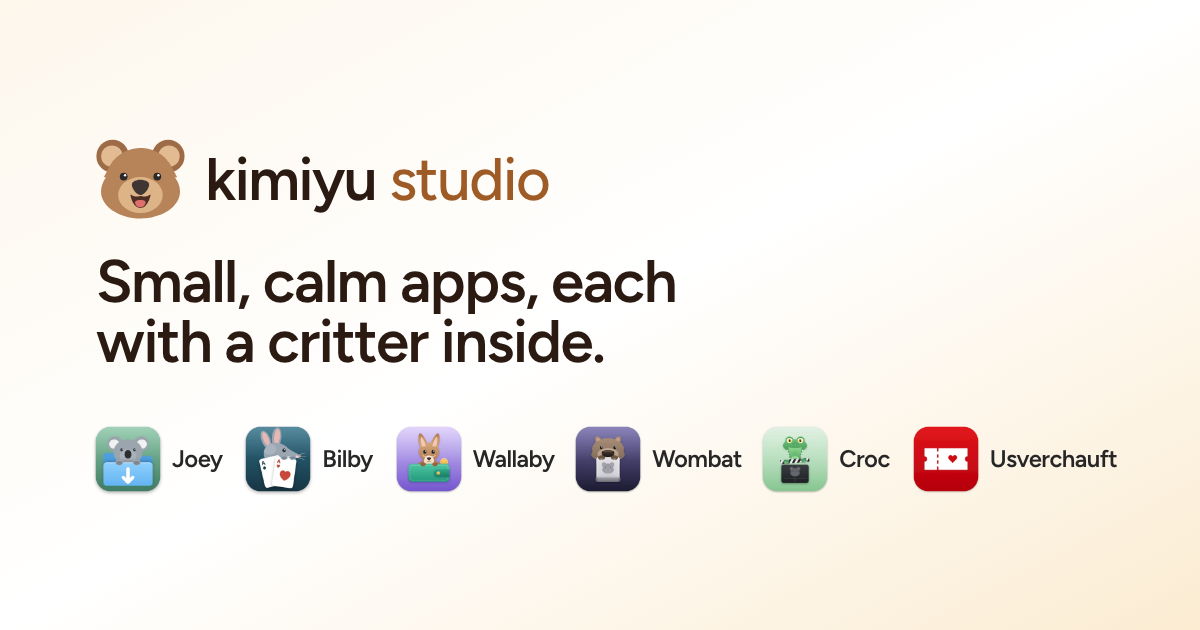
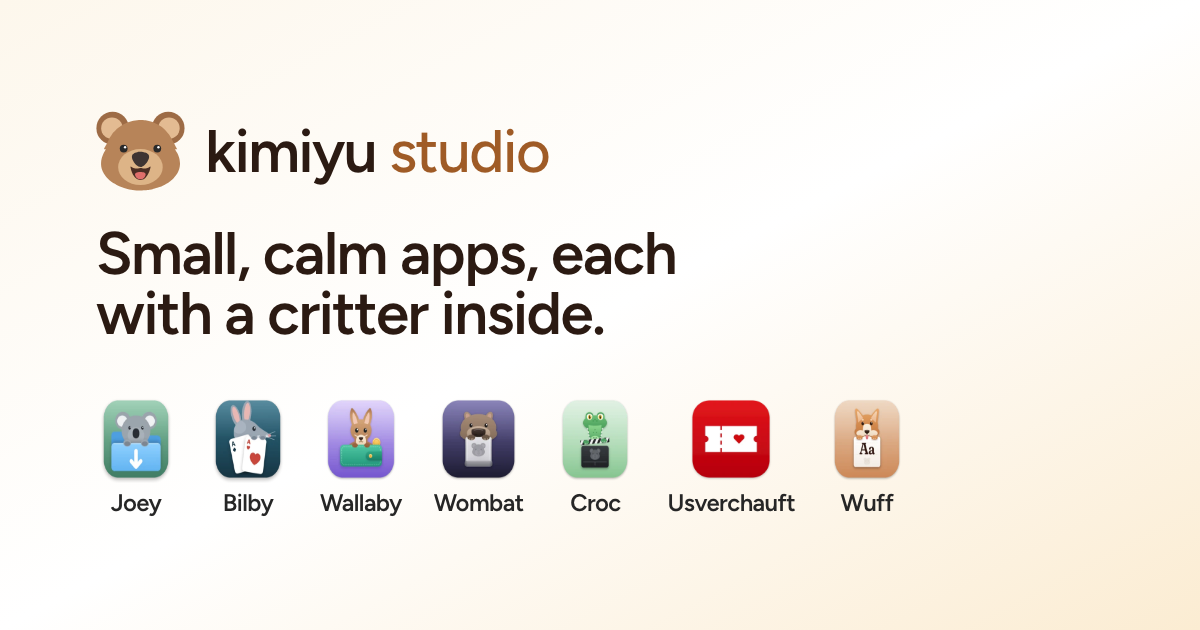
Add Wuff, the web font converter, to the apps
Card with the ochre colour from wuff.web, legal, contact and meta mentions,
and 'Seven apps, seven small jobs' in the heading. The share image now puts
each name under its icon, since seven side-by-side labels no longer fit.

Changed region(s): [[0.0617, 0.181, 0.5858, 0.573], [0.0617, 0.6333, 0.925, 0.8143]]

diff --git a/public/build/assets/app-CEltqF4L.css b/public/build/assets/app-CEltqF4L.css
@@ -1,0 +1,2 @@
+/*! tailwindcss v4.3.3 | MIT License | https://tailwindcss.com */
+@layer properties{@supports (((-webkit-hyphens:none)) and (not (margin-trim:inline))) or ((-moz-orient:inline) and (not (color:rgb(from red r g b)))){*,:before,:after,::backdrop{--tw-space-y-reverse:0;--tw-divide-y-reverse:0;--tw-border-style:solid;--tw-gradient-position:initial;--tw-gradient-from:#0000;--tw-gradient-via:#0000;--tw-gradient-to:#0000;--tw-gradient-stops:initial;--tw-gradient-via-stops:initial;--tw-gradient-from-position:0%;--tw-gradient-via-position:50%;--tw-gradient-to-position:100%;--tw-font-weight:initial;--tw-tracking:initial;--tw-shadow:0 0 #0000;--tw-shadow-color:initial;--tw-shadow-alpha:100%;--tw-inset-shadow:0 0 #0000;--tw-inset-shadow-color:initial;--tw-inset-shadow-alpha:100%;--tw-ring-color:initial;--tw-ring-shadow:0 0 #0000;--tw-inset-ring-color:initial;--tw-inset-ring-shadow:0 0 #0000;--tw-ring-inset:initial;--tw-ring-offset-width:0px;--tw-ring-offset-color:#fff;--tw-ring-offset-shadow:0 0 #0000;--tw-translate-x:0;--tw-translate-y:0;--tw-translate-z:0;--tw-outline-style:solid}}}@layer theme{:root,:host{--font-sans:var(--font-inter), ui-sans-serif, system-ui, sans-serif;--font-mono:ui-monospace, SFMono-Regular, Menlo, Monaco, Consolas, "Liberation Mono", "Courier New", monospace;--color-neutral-500:oklch(55.6% 0 none);--color-neutral-600:oklch(43.9% 0 none);--color-neutral-700:oklch(37.1% 0 none);--color-neutral-800:oklch(26.9% 0 none);--color-neutral-950:oklch(14.5% 0 none);--color-white:#fff;--spacing:.25rem;--container-6xl:72rem;--text-sm:.875rem;--text-base:1rem;--text-lg:1.125rem;--text-xl:1.25rem;--text-xl--line-height:calc(1.75 / 1.25);--text-2xl:1.5rem;--text-2xl--line-height:calc(2 / 1.5);--text-4xl:2.25rem;--text-4xl--line-height:calc(2.5 / 2.25);--text-5xl:3rem;--text-5xl--line-height:1;--text-6xl:3.75rem;--text-6xl--line-height:1;--text-7xl:4.5rem;--text-7xl--line-height:1;--font-weight-normal:400;--font-weight-medium:500;--font-weight-semibold:600;--tracking-tight:-.025em;--radius-3xl:1.5rem;--default-transition-duration:.15s;--default-transition-timing-function:cubic-bezier(.4, 0, .2, 1);--default-font-family:var(--font-sans);--default-font-feature-settings:var(--font-sans--font-feature-settings);--default-mono-font-family:var(--font-mono);--font-sans--font-feature-settings:"cv02", "cv03", "cv04", "cv11";--font-display:var(--font-figtree), ui-sans-serif, system-ui, sans-serif;--color-honey-50:#fdf7ec;--color-honey-100:#fbecd2;--color-honey-600:#9f5b26;--color-honey-700:#824a22;--color-honey-800:#6b3d20;--color-honey-950:#2b1a12;--color-gum-50:#f1f8f4;--color-gum-700:#2f6450;--color-gum-950:#10261e;--color-chip-50:#eef7f9;--color-chip-700:#24576a;--color-chip-950:#112832;--color-lilac-50:#f6f3fe;--color-lilac-700:#6243b3;--color-lilac-950:#2a1d4d;--color-burrow-50:#f4f4fa;--color-burrow-700:#484276;--color-burrow-950:#1d1b31;--color-billabong-50:#eff8f0;--color-billabong-700:#255c31;--color-billabong-950:#0c2113;--color-terrace-50:#fdf1f1;--color-terrace-700:#b5000d;--color-terrace-950:#3a0a0b;--color-ochre-50:#fbf6f1;--color-ochre-700:#864428;--color-ochre-950:#311710}}@layer base{*,:after,:before,::backdrop{box-sizing:border-box;border:0 solid;margin:0;padding:0}::file-selector-button{box-sizing:border-box;border:0 solid;margin:0;padding:0}html,:host{-webkit-text-size-adjust:100%;tab-size:4;line-height:1.5;font-family:var(--default-font-family,-apple-system, BlinkMacSystemFont, "Segoe UI", Roboto, "Helvetica Neue", "Noto Sans", Arial, sans-serif, "Apple Color Emoji", "Segoe UI Emoji", "Segoe UI Symbol", "Noto Color Emoji");font-feature-settings:var(--default-font-feature-settings,normal);font-variation-settings:var(--default-font-variation-settings,normal);-webkit-tap-highlight-color:transparent}hr{height:0;color:inherit;border-top-width:1px}abbr:where([title]){-webkit-text-decoration:underline dotted;text-decoration:underline dotted}h1,h2,h3,h4,h5,h6{font-size:inherit;font-weight:inherit}a{color:inherit;-webkit-text-decoration:inherit;-webkit-text-decoration:inherit;-webkit-text-decoration:inherit;-webkit-text-decoration:inherit;text-decoration:inherit}b,strong{font-weight:bolder}code,kbd,samp,pre{font-family:var(--default-mono-font-family,ui-monospace, SFMono-Regular, Menlo, Monaco, Consolas, "Liberation Mono", "Courier New", monospace);font-feature-settings:var(--default-mono-font-feature-settings,normal);font-variation-settings:var(--default-mono-font-variation-settings,normal);font-size:1em}small{font-size:80%}sub,sup{vertical-align:baseline;font-size:75%;line-height:0;position:relative}sub{bottom:-.25em}sup{top:-.5em}table{text-indent:0;border-color:inherit;border-collapse:collapse}:-moz-focusring:where(:not(iframe)){outline:auto}progress{vertical-align:baseline}summary{display:list-item}ol,ul,menu{list-style:none}img,svg,video,canvas,audio,iframe,embed,object{vertical-align:middle;display:block}img,video{max-width:100%;height:auto}button,input,select,optgroup,textarea{font:inherit;font-feature-settings:inherit;font-variation-settings:inherit;letter-spacing:inherit;color:inherit;opacity:1;background-color:#0000;border-radius:0}::file-selector-button{font:inherit;font-feature-settings:inherit;font-variation-settings:inherit;letter-spacing:inherit;color:inherit;opacity:1;background-color:#0000;border-radius:0}:where(select:is([multiple],[size])) optgroup{font-weight:bolder}:where(select:is([multiple],[size])) optgroup option{padding-inline-start:20px}::file-selector-button{margin-inline-end:4px}::placeholder{opacity:1}@supports (not ((-webkit-appearance:-apple-pay-button))) or (contain-intrinsic-size:1px){::placeholder{color:currentColor}@supports (color:color-mix(in lab, red, red)){::placeholder{color:color-mix(in oklab, currentcolor 50%, transparent)}}}textarea{resize:vertical}::-webkit-search-decoration{-webkit-appearance:none}::-webkit-date-and-time-value{min-height:1lh;text-align:inherit}::-webkit-datetime-edit{display:inline-flex}::-webkit-datetime-edit-fields-wrapper{padding:0}::-webkit-datetime-edit{padding-block:0}::-webkit-datetime-edit-year-field{padding-block:0}::-webkit-datetime-edit-month-field{padding-block:0}::-webkit-datetime-edit-day-field{padding-block:0}::-webkit-datetime-edit-hour-field{padding-block:0}::-webkit-datetime-edit-minute-field{padding-block:0}::-webkit-datetime-edit-second-field{padding-block:0}::-webkit-datetime-edit-millisecond-field{padding-block:0}::-webkit-datetime-edit-meridiem-field{padding-block:0}::-webkit-calendar-picker-indicator{line-height:1}:-moz-ui-invalid{box-shadow:none}button,input:where([type=button],[type=reset],[type=submit]){appearance:button}::file-selector-button{appearance:button}::-webkit-inner-spin-button{height:auto}::-webkit-outer-spin-button{height:auto}[hidden]:where(:not([hidden=until-found])){display:none!important}}@layer components;@layer utilities{.absolute{position:absolute}.relative{position:relative}.inset-x-0{inset-inline:0}.top-0{top:0}.isolate{isolation:isolate}.-z-10{z-index:calc(10 * -1)}.-m-2{margin:calc(var(--spacing) * -2)}.m-0{margin:0}.mx-auto{margin-inline:auto}.mt-1{margin-top:var(--spacing)}.mt-2{margin-top:calc(var(--spacing) * 2)}.mt-4{margin-top:calc(var(--spacing) * 4)}.mt-6{margin-top:calc(var(--spacing) * 6)}.mt-8{margin-top:calc(var(--spacing) * 8)}.mt-10{margin-top:calc(var(--spacing) * 10)}.mt-14{margin-top:calc(var(--spacing) * 14)}.mt-16{margin-top:calc(var(--spacing) * 16)}.mt-auto{margin-top:auto}.flex{display:flex}.grid{display:grid}.inline-flex{display:inline-flex}.size-5{width:calc(var(--spacing) * 5);height:calc(var(--spacing) * 5)}.size-6{width:calc(var(--spacing) * 6);height:calc(var(--spacing) * 6)}.size-24{width:calc(var(--spacing) * 24);height:calc(var(--spacing) * 24)}.h-6{height:calc(var(--spacing) * 6)}.h-7{height:calc(var(--spacing) * 7)}.h-20{height:calc(var(--spacing) * 20)}.h-\[44rem\]{height:44rem}.h-\[630px\]{height:630px}.w-\[1200px\]{width:1200px}.w-auto{width:auto}.w-full{width:100%}.max-w-6xl{max-width:var(--container-6xl)}.max-w-\[20ch\]{max-width:20ch}.max-w-\[22ch\]{max-width:22ch}.max-w-\[30ch\]{max-width:30ch}.max-w-\[48ch\]{max-width:48ch}.max-w-\[56ch\]{max-width:56ch}.max-w-\[65ch\]{max-width:65ch}.shrink-0{flex-shrink:0}.scroll-mt-8{scroll-margin-top:calc(var(--spacing) * 8)}.grid-cols-1{grid-template-columns:repeat(1,minmax(0,1fr))}.flex-col{flex-direction:column}.flex-wrap{flex-wrap:wrap}.items-center{align-items:center}.justify-between{justify-content:space-between}.justify-center{justify-content:center}.justify-end{justify-content:flex-end}.gap-4{gap:calc(var(--spacing) * 4)}.gap-6{gap:calc(var(--spacing) * 6)}.gap-8{gap:calc(var(--spacing) * 8)}:where(.space-y-4>:not(:last-child)){--tw-space-y-reverse:0;margin-block-start:calc(calc(var(--spacing) * 4) * var(--tw-space-y-reverse));margin-block-end:calc(calc(var(--spacing) * 4) * calc(1 - var(--tw-space-y-reverse)))}.gap-x-1\.5{column-gap:calc(var(--spacing) * 1.5)}.gap-x-2{column-gap:calc(var(--spacing) * 2)}.gap-x-2\.5{column-gap:calc(var(--spacing) * 2.5)}.gap-x-3{column-gap:calc(var(--spacing) * 3)}.gap-x-5{column-gap:calc(var(--spacing) * 5)}.gap-x-6{column-gap:calc(var(--spacing) * 6)}.gap-x-8{column-gap:calc(var(--spacing) * 8)}.gap-x-12{column-gap:calc(var(--spacing) * 12)}.gap-y-2{row-gap:calc(var(--spacing) * 2)}.gap-y-4{row-gap:calc(var(--spacing) * 4)}:where(.divide-y>:not(:last-child)){--tw-divide-y-reverse:0;border-bottom-style:var(--tw-border-style);border-top-style:var(--tw-border-style);border-top-width:calc(1px * var(--tw-divide-y-reverse));border-bottom-width:calc(1px * calc(1 - var(--tw-divide-y-reverse)))}:where(.divide-neutral-950\/5>:not(:last-child)){border-color:#0a0a0a0d}@supports (color:color-mix(in lab, red, red)){:where(.divide-neutral-950\/5>:not(:last-child)){border-color:color-mix(in oklab, var(--color-neutral-950) 5%, transparent)}}.self-start{align-self:flex-start}.overflow-hidden{overflow:hidden}.rounded-3xl{border-radius:var(--radius-3xl)}.rounded-full{border-radius:2147483647px}.border-t{border-top-style:var(--tw-border-style);border-top-width:1px}.border-neutral-950\/5{border-color:#0a0a0a0d}@supports (color:color-mix(in lab, red, red)){.border-neutral-950\/5{border-color:color-mix(in oklab, var(--color-neutral-950) 5%, transparent)}}.bg-honey-600{background-color:var(--color-honey-600)}.bg-white{background-color:var(--color-white)}.bg-linear-to-b{--tw-gradient-position:to bottom}@supports (background-image:linear-gradient(in lab, red, red)){.bg-linear-to-b{--tw-gradient-position:to bottom in oklab}}.bg-linear-to-b{background-image:linear-gradient(var(--tw-gradient-stops))}.bg-linear-to-br{--tw-gradient-position:to bottom right}@supports (background-image:linear-gradient(in lab, red, red)){.bg-linear-to-br{--tw-gradient-position:to bottom right in oklab}}.bg-linear-to-br{background-image:linear-gradient(var(--tw-gradient-stops))}.from-billabong-50{--tw-gradient-from:var(--color-billabong-50);--tw-gradient-stops:var(--tw-gradient-via-stops,var(--tw-gradient-position), var(--tw-gradient-from) var(--tw-gradient-from-position), var(--tw-gradient-to) var(--tw-gradient-to-position))}.from-burrow-50{--tw-gradient-from:var(--color-burrow-50);--tw-gradient-stops:var(--tw-gradient-via-stops,var(--tw-gradient-position), var(--tw-gradient-from) var(--tw-gradient-from-position), var(--tw-gradient-to) var(--tw-gradient-to-position))}.from-chip-50{--tw-gradient-from:var(--color-chip-50);--tw-gradient-stops:var(--tw-gradient-via-stops,var(--tw-gradient-position), var(--tw-gradient-from) var(--tw-gradient-from-position), var(--tw-gradient-to) var(--tw-gradient-to-position))}.from-gum-50{--tw-gradient-from:var(--color-gum-50);--tw-gradient-stops:var(--tw-gradient-via-stops,var(--tw-gradient-position), var(--tw-gradient-from) var(--tw-gradient-from-position), var(--tw-gradient-to) var(--tw-gradient-to-position))}.from-honey-50{--tw-gradient-from:var(--color-honey-50);--tw-gradient-stops:var(--tw-gradient-via-stops,var(--tw-gradient-position), var(--tw-gradient-from) var(--tw-gradient-from-position), var(--tw-gradient-to) var(--tw-gradient-to-position))}.from-lilac-50{--tw-gradient-from:var(--color-lilac-50);--tw-gradient-stops:var(--tw-gradient-via-stops,var(--tw-gradient-position), var(--tw-gradient-from) var(--tw-gradient-from-position), var(--tw-gradient-to) var(--tw-gradient-to-position))}.from-ochre-50{--tw-gradient-from:var(--color-ochre-50);--tw-gradient-stops:var(--tw-gradient-via-stops,var(--tw-gradient-position), var(--tw-gradient-from) var(--tw-gradient-from-position), var(--tw-gradient-to) var(--tw-gradient-to-position))}.from-terrace-50{--tw-gradient-from:var(--color-terrace-50);--tw-gradient-stops:var(--tw-gradient-via-stops,var(--tw-gradient-position), var(--tw-gradient-from) var(--tw-gradient-from-position), var(--tw-gradient-to) var(--tw-gradient-to-position))}.via-white{--tw-gradient-via:var(--color-white);--tw-gradient-via-stops:var(--tw-gradient-position), var(--tw-gradient-from) var(--tw-gradient-from-position), var(--tw-gradient-via) var(--tw-gradient-via-position), var(--tw-gradient-to) var(--tw-gradient-to-position);--tw-gradient-stops:var(--tw-gradient-via-stops)}.to-honey-100{--tw-gradient-to:var(--color-honey-100);--tw-gradient-stops:var(--tw-gradient-via-stops,var(--tw-gradient-position), var(--tw-gradient-from) var(--tw-gradient-from-position), var(--tw-gradient-to) var(--tw-gradient-to-position))}.to-white{--tw-gradient-to:var(--color-white);--tw-gradient-stops:var(--tw-gradient-via-stops,var(--tw-gradient-position), var(--tw-gradient-from) var(--tw-gradient-from-position), var(--tw-gradient-to) var(--tw-gradient-to-position))}.to-60\%{--tw-gradient-to-position:60%}.fill-current{fill:currentColor}.fill-white{fill:var(--color-white)}.stroke-honey-600{stroke:var(--color-honey-600)}.p-8{padding:calc(var(--spacing) * 8)}.px-3{padding-inline:calc(var(--spacing) * 3)}.px-6{padding-inline:calc(var(--spacing) * 6)}.px-24{padding-inline:calc(var(--spacing) * 24)}.py-1\.5{padding-block:calc(var(--spacing) * 1.5)}.py-3{padding-block:calc(var(--spacing) * 3)}.py-5{padding-block:calc(var(--spacing) * 5)}.py-8{padding-block:calc(var(--spacing) * 8)}.py-10{padding-block:calc(var(--spacing) * 10)}.py-12{padding-block:calc(var(--spacing) * 12)}.py-24{padding-block:calc(var(--spacing) * 24)}.pt-8{padding-top:calc(var(--spacing) * 8)}.pt-10{padding-top:calc(var(--spacing) * 10)}.pt-16{padding-top:calc(var(--spacing) * 16)}.pr-4{padding-right:calc(var(--spacing) * 4)}.pr-5{padding-right:calc(var(--spacing) * 5)}.pb-24{padding-bottom:calc(var(--spacing) * 24)}.pl-4{padding-left:calc(var(--spacing) * 4)}.pl-5{padding-left:calc(var(--spacing) * 5)}.text-center{text-align:center}.font-sans{font-family:var(--font-sans);font-feature-settings:var(--font-sans--font-feature-settings)}.font-display{font-family:var(--font-display)}.text-2xl{font-size:var(--text-2xl);line-height:var(--tw-leading,var(--text-2xl--line-height))}.text-4xl{font-size:var(--text-4xl);line-height:var(--tw-leading,var(--text-4xl--line-height))}.text-5xl{font-size:var(--text-5xl);line-height:var(--tw-leading,var(--text-5xl--line-height))}.text-6xl{font-size:var(--text-6xl);line-height:var(--tw-leading,var(--text-6xl--line-height))}.text-base\/6{font-size:var(--text-base);line-height:calc(var(--spacing) * 6)}.text-base\/7{font-size:var(--text-base);line-height:calc(var(--spacing) * 7)}.text-lg\/7{font-size:var(--text-lg);line-height:calc(var(--spacing) * 7)}.text-lg\/8{font-size:var(--text-lg);line-height:calc(var(--spacing) * 8)}.text-sm\/6{font-size:var(--text-sm);line-height:calc(var(--spacing) * 6)}.text-xl{font-size:var(--text-xl);line-height:var(--tw-leading,var(--text-xl--line-height))}.font-medium{--tw-font-weight:var(--font-weight-medium);font-weight:var(--font-weight-medium)}.font-normal{--tw-font-weight:var(--font-weight-normal);font-weight:var(--font-weight-normal)}.font-semibold{--tw-font-weight:var(--font-weight-semibold);font-weight:var(--font-weight-semibold)}.tracking-tight{--tw-tracking:var(--tracking-tight);letter-spacing:var(--tracking-tight)}.text-balance{text-wrap:balance}.text-pretty{text-wrap:pretty}.whitespace-nowrap{white-space:nowrap}.text-billabong-700{color:var(--color-billabong-700)}.text-billabong-950{color:var(--color-billabong-950)}.text-burrow-700{color:var(--color-burrow-700)}.text-burrow-950{color:var(--color-burrow-950)}.text-chip-700{color:var(--color-chip-700)}.text-chip-950{color:var(--color-chip-950)}.text-gum-700{color:var(--color-gum-700)}.text-gum-950{color:var(--color-gum-950)}.text-honey-600{color:var(--color-honey-600)}.text-honey-800{color:var(--color-honey-800)}.text-honey-950{color:var(--color-honey-950)}.text-lilac-700{color:var(--color-lilac-700)}.text-lilac-950{color:var(--color-lilac-950)}.text-neutral-500{color:var(--color-neutral-500)}.text-neutral-600{color:var(--color-neutral-600)}.text-neutral-700{color:var(--color-neutral-700)}.text-neutral-800{color:var(--color-neutral-800)}.text-neutral-950{color:var(--color-neutral-950)}.text-ochre-700{color:var(--color-ochre-700)}.text-ochre-950{color:var(--color-ochre-950)}.text-terrace-700{color:var(--color-terrace-700)}.text-terrace-950{color:var(--color-terrace-950)}.text-white{color:var(--color-white)}.antialiased{-webkit-font-smoothing:antialiased;-moz-osx-font-smoothing:grayscale}.shadow-sm{--tw-shadow:0 1px 3px 0 var(--tw-shadow-color,#0000001a), 0 1px 2px -1px var(--tw-shadow-color,#0000001a);box-shadow:var(--tw-inset-shadow), var(--tw-inset-ring-shadow), var(--tw-ring-offset-shadow), var(--tw-ring-shadow), var(--tw-shadow)}.ring-1{--tw-ring-shadow:var(--tw-ring-inset,) 0 0 0 calc(1px + var(--tw-ring-offset-width)) var(--tw-ring-color,currentcolor);box-shadow:var(--tw-inset-shadow), var(--tw-inset-ring-shadow), var(--tw-ring-offset-shadow), var(--tw-ring-shadow), var(--tw-shadow)}.ring-billabong-950\/10{--tw-ring-color:#0c21131a}@supports (color:color-mix(in lab, red, red)){.ring-billabong-950\/10{--tw-ring-color:color-mix(in oklab, var(--color-billabong-950) 10%, transparent)}}.ring-burrow-950\/10{--tw-ring-color:#1d1b311a}@supports (color:color-mix(in lab, red, red)){.ring-burrow-950\/10{--tw-ring-color:color-mix(in oklab, var(--color-burrow-950) 10%, transparent)}}.ring-chip-950\/10{--tw-ring-color:#1128321a}@supports (color:color-mix(in lab, red, red)){.ring-chip-950\/10{--tw-ring-color:color-mix(in oklab, var(--color-chip-950) 10%, transparent)}}.ring-gum-950\/10{--tw-ring-color:#10261e1a}@supports (color:color-mix(in lab, red, red)){.ring-gum-950\/10{--tw-ring-color:color-mix(in oklab, var(--color-gum-950) 10%, transparent)}}.ring-honey-950\/10{--tw-ring-color:#2b1a121a}@supports (color:color-mix(in lab, red, red)){.ring-honey-950\/10{--tw-ring-color:color-mix(in oklab, var(--color-honey-950) 10%, transparent)}}.ring-lilac-950\/10{--tw-ring-color:#2a1d4d1a}@supports (color:color-mix(in lab, red, red)){.ring-lilac-950\/10{--tw-ring-color:color-mix(in oklab, var(--color-lilac-950) 10%, transparent)}}.ring-ochre-950\/10{--tw-ring-color:#3117101a}@supports (color:color-mix(in lab, red, red)){.ring-ochre-950\/10{--tw-ring-color:color-mix(in oklab, var(--color-ochre-950) 10%, transparent)}}.ring-terrace-950\/10{--tw-ring-color:#3a0a0b1a}@supports (color:color-mix(in lab, red, red)){.ring-terrace-950\/10{--tw-ring-color:color-mix(in oklab, var(--color-terrace-950) 10%, transparent)}}@media (hover:hover){.group-hover\:translate-x-0\.5:is(:where(.group):hover *){--tw-translate-x:calc(var(--spacing) * .5);translate:var(--tw-translate-x) var(--tw-translate-y)}.hover\:bg-honey-50:hover{background-color:var(--color-honey-50)}.hover\:bg-honey-700:hover{background-color:var(--color-honey-700)}.hover\:text-honey-600:hover{color:var(--color-honey-600)}.hover\:text-honey-700:hover{color:var(--color-honey-700)}.hover\:ring-billabong-950\/20:hover{--tw-ring-color:#0c211333}@supports (color:color-mix(in lab, red, red)){.hover\:ring-billabong-950\/20:hover{--tw-ring-color:color-mix(in oklab, var(--color-billabong-950) 20%, transparent)}}.hover\:ring-burrow-950\/20:hover{--tw-ring-color:#1d1b3133}@supports (color:color-mix(in lab, red, red)){.hover\:ring-burrow-950\/20:hover{--tw-ring-color:color-mix(in oklab, var(--color-burrow-950) 20%, transparent)}}.hover\:ring-chip-950\/20:hover{--tw-ring-color:#11283233}@supports (color:color-mix(in lab, red, red)){.hover\:ring-chip-950\/20:hover{--tw-ring-color:color-mix(in oklab, var(--color-chip-950) 20%, transparent)}}.hover\:ring-gum-950\/20:hover{--tw-ring-color:#10261e33}@supports (color:color-mix(in lab, red, red)){.hover\:ring-gum-950\/20:hover{--tw-ring-color:color-mix(in oklab, var(--color-gum-950) 20%, transparent)}}.hover\:ring-lilac-950\/20:hover{--tw-ring-color:#2a1d4d33}@supports (color:color-mix(in lab, red, red)){.hover\:ring-lilac-950\/20:hover{--tw-ring-color:color-mix(in oklab, var(--color-lilac-950) 20%, transparent)}}.hover\:ring-ochre-950\/20:hover{--tw-ring-color:#31171033}@supports (color:color-mix(in lab, red, red)){.hover\:ring-ochre-950\/20:hover{--tw-ring-color:color-mix(in oklab, var(--color-ochre-950) 20%, transparent)}}.hover\:ring-terrace-950\/20:hover{--tw-ring-color:#3a0a0b33}@supports (color:color-mix(in lab, red, red)){.hover\:ring-terrace-950\/20:hover{--tw-ring-color:color-mix(in oklab, var(--color-terrace-950) 20%, transparent)}}}.focus-visible\:outline-2:focus-visible{outline-style:var(--tw-outline-style);outline-width:2px}.focus-visible\:outline-offset-2:focus-visible{outline-offset:2px}.focus-visible\:outline-honey-600:focus-visible{outline-color:var(--color-honey-600)}@media (prefers-reduced-motion:no-preference){.motion-safe\:scroll-smooth{scroll-behavior:smooth}.motion-safe\:transition-transform{transition-property:transform,translate,scale,rotate;transition-timing-function:var(--tw-ease,var(--default-transition-timing-function));transition-duration:var(--tw-duration,var(--default-transition-duration))}}@media not all and (width>=40rem){.max-sm\:hidden{display:none}}@media (width>=40rem){.sm\:size-4{width:calc(var(--spacing) * 4);height:calc(var(--spacing) * 4)}.sm\:grid-cols-\[12rem_1fr\]{grid-template-columns:12rem 1fr}.sm\:flex-row{flex-direction:row}.sm\:items-center{align-items:center}.sm\:justify-between{justify-content:space-between}.sm\:py-32{padding-block:calc(var(--spacing) * 32)}.sm\:pt-16{padding-top:calc(var(--spacing) * 16)}.sm\:pt-24{padding-top:calc(var(--spacing) * 24)}.sm\:pb-32{padding-bottom:calc(var(--spacing) * 32)}.sm\:text-5xl{font-size:var(--text-5xl);line-height:var(--tw-leading,var(--text-5xl--line-height))}.sm\:text-7xl{font-size:var(--text-7xl);line-height:var(--tw-leading,var(--text-7xl--line-height))}.sm\:text-base\/7{font-size:var(--text-base);line-height:calc(var(--spacing) * 7)}.sm\:text-sm\/6{font-size:var(--text-sm);line-height:calc(var(--spacing) * 6)}.sm\:text-xl\/8{font-size:var(--text-xl);line-height:calc(var(--spacing) * 8)}}@media (width>=48rem){.md\:grid-cols-2{grid-template-columns:repeat(2,minmax(0,1fr))}.md\:p-8{padding:calc(var(--spacing) * 8)}}@media (width>=64rem){.lg\:col-span-2{grid-column:span 2/span 2}.lg\:grid-cols-3{grid-template-columns:repeat(3,minmax(0,1fr))}.lg\:items-end{align-items:flex-end}.lg\:self-end{align-self:flex-end}.lg\:px-8{padding-inline:calc(var(--spacing) * 8)}}}@property --tw-space-y-reverse{syntax:"*";inherits:false;initial-value:0}@property --tw-divide-y-reverse{syntax:"*";inherits:false;initial-value:0}@property --tw-border-style{syntax:"*";inherits:false;initial-value:solid}@property --tw-gradient-position{syntax:"*";inherits:false}@property --tw-gradient-from{syntax:"<color>";inherits:false;initial-value:#0000}@property --tw-gradient-via{syntax:"<color>";inherits:false;initial-value:#0000}@property --tw-gradient-to{syntax:"<color>";inherits:false;initial-value:#0000}@property --tw-gradient-stops{syntax:"*";inherits:false}@property --tw-gradient-via-stops{syntax:"*";inherits:false}@property --tw-gradient-from-position{syntax:"<length-percentage>";inherits:false;initial-value:0%}@property --tw-gradient-via-position{syntax:"<length-percentage>";inherits:false;initial-value:50%}@property --tw-gradient-to-position{syntax:"<length-percentage>";inherits:false;initial-value:100%}@property --tw-font-weight{syntax:"*";inherits:false}@property --tw-tracking{syntax:"*";inherits:false}@property --tw-shadow{syntax:"*";inherits:false;initial-value:0 0 #0000}@property --tw-shadow-color{syntax:"*";inherits:false}@property --tw-shadow-alpha{syntax:"<percentage>";inherits:false;initial-value:100%}@property --tw-inset-shadow{syntax:"*";inherits:false;initial-value:0 0 #0000}@property --tw-inset-shadow-color{syntax:"*";inherits:false}@property --tw-inset-shadow-alpha{syntax:"<percentage>";inherits:false;initial-value:100%}@property --tw-ring-color{syntax:"*";inherits:false}@property --tw-ring-shadow{syntax:"*";inherits:false;initial-value:0 0 #0000}@property --tw-inset-ring-color{syntax:"*";inherits:false}@property --tw-inset-ring-shadow{syntax:"*";inherits:false;initial-value:0 0 #0000}@property --tw-ring-inset{syntax:"*";inherits:false}@property --tw-ring-offset-width{syntax:"<length>";inherits:false;initial-value:0}@property --tw-ring-offset-color{syntax:"*";inherits:false;initial-value:#fff}@property --tw-ring-offset-shadow{syntax:"*";inherits:false;initial-value:0 0 #0000}@property --tw-translate-x{syntax:"*";inherits:false;initial-value:0}@property --tw-translate-y{syntax:"*";inherits:false;initial-value:0}@property --tw-translate-z{syntax:"*";inherits:false;initial-value:0}@property --tw-outline-style{syntax:"*";inherits:false;initial-value:solid}

diff --git a/resources/css/app.css b/resources/css/app.css
@@ -40,4 +40,7 @@
     --color-terrace-50: #fdf1f1;
     --color-terrace-700: #b5000d;
     --color-terrace-950: #3a0a0b;
+    --color-ochre-50: #fbf6f1;
+    --color-ochre-700: #864428;
+    --color-ochre-950: #311710;
 }

diff --git a/resources/views/components/layouts/app.blade.php b/resources/views/components/layouts/app.blade.php
@@ -1,6 +1,6 @@
 @props([
     'title' => 'kimiyu studio: small, calm apps, each with a critter inside',
-    'description' => 'kimiyu studio makes small, calm apps: Joey, a BitTorrent client for the Mac; Bilby, a poker tournament clock; Wallaby, a shared tab for couples and housemates; Wombat, a disk space app for the Mac; Croc, a video converter for the Mac; and Usverchauft, ticket passing for FC Winterthur fans.',
+    'description' => 'kimiyu studio makes small, calm apps: Joey, a BitTorrent client for the Mac; Bilby, a poker tournament clock; Wallaby, a shared tab for couples and housemates; Wombat, a disk space app for the Mac; Croc, a video converter for the Mac; Usverchauft, ticket passing for FC Winterthur fans; and Wuff, a web font converter in the browser.',
 ])
 
 @php
@@ -25,7 +25,7 @@
     <meta property="og:image" content="{{ asset('images/og.png') }}">
     <meta property="og:image:width" content="1200">
     <meta property="og:image:height" content="630">
-    <meta property="og:image:alt" content="The kimiyu bear next to the words: Small, calm apps, each with a critter inside. Below, the icons of Joey, Bilby, Wallaby, Wombat, Croc and Usverchauft.">
+    <meta property="og:image:alt" content="The kimiyu bear next to the words: Small, calm apps, each with a critter inside. Below, the icons of Joey, Bilby, Wallaby, Wombat, Croc, Usverchauft and Wuff.">
     <meta name="twitter:card" content="summary_large_image">
 
     <link rel="icon" type="image/svg+xml" href="{{ asset('favicon.svg') }}">

diff --git a/resources/views/home.blade.php b/resources/views/home.blade.php
@@ -65,7 +65,7 @@
             <div class="mx-auto max-w-6xl px-6 lg:px-8">
                 <p class="text-base/7 font-semibold text-honey-600">The apps</p>
                 <h2 class="mt-2 max-w-[30ch] font-display text-4xl font-semibold tracking-tight text-balance text-honey-950 sm:text-5xl">
-                    Six apps, six small jobs
+                    Seven apps, seven small jobs
                 </h2>
                 <p class="mt-6 max-w-[48ch] text-lg/8 text-pretty text-neutral-600">
                     Each app has its own website, with everything you need to get started.
@@ -125,7 +125,7 @@
                         Questions, ideas or a bug to report?
                     </h2>
                     <p class="mt-6 max-w-[48ch] text-lg/8 text-pretty text-neutral-600">
-                        Write to us. For Joey, Wombat and Croc, you can also open an issue on GitHub.
+                        Write to us. For Joey, Wombat, Croc and Wuff, you can also open an issue on GitHub.
                     </p>
                 </div>
                 <div class="flex flex-col justify-end gap-4 lg:items-end">

diff --git a/resources/views/legal.blade.php b/resources/views/legal.blade.php
@@ -31,6 +31,7 @@
                         Read about <a href="https://joey.kimiyu.ch/legal" class="font-medium text-honey-800 hover:text-honey-600">Joey’s legal notice</a>,
                         <a href="https://wombat.kimiyu.ch/legal" class="font-medium text-honey-800 hover:text-honey-600">Wombat’s legal notice</a>,
                         <a href="https://croc.kimiyu.ch/legal" class="font-medium text-honey-800 hover:text-honey-600">Croc’s legal notice</a>,
+                        <a href="https://wuff.kimiyu.ch/legal" class="font-medium text-honey-800 hover:text-honey-600">Wuff’s legal notice</a>,
                         <a href="https://usverchauft.ch/datenschutz" class="font-medium text-honey-800 hover:text-honey-600">Usverchauft’s privacy policy</a>
                         and <a href="https://wallaby.kimiyu.ch/privacy" class="font-medium text-honey-800 hover:text-honey-600">Wallaby’s privacy policy</a>
                         on their websites.

diff --git a/config/kimiyu.php b/config/kimiyu.php
@@ -68,6 +68,16 @@ return [
             'details' => 'Free, in Swiss German · Phone and computer',
             'color' => 'terrace',
         ],
+        [
+            'name' => 'Wuff',
+            'url' => 'https://wuff.kimiyu.ch',
+            'icon' => 'images/wuff.webp',
+            'icon_alt' => 'The Wuff app icon: a dingo peeking over a card with the letters Aa',
+            'tagline' => 'Fetches your fonts for the web.',
+            'description' => 'Turns TTF and OTF fonts into small WOFF2 and WOFF files, right in your browser, and writes the @font-face CSS for them. Your fonts are never uploaded.',
+            'details' => 'Free, no sign-up · Browser',
+            'color' => 'ochre',
+        ],
     ],
 
 ];

diff --git a/resources/views/components/app-card.blade.php b/resources/views/components/app-card.blade.php
@@ -9,6 +9,7 @@
         'burrow' => ['card' => 'from-burrow-50 ring-burrow-950/10 hover:ring-burrow-950/20', 'name' => 'text-burrow-950', 'accent' => 'text-burrow-700'],
         'billabong' => ['card' => 'from-billabong-50 ring-billabong-950/10 hover:ring-billabong-950/20', 'name' => 'text-billabong-950', 'accent' => 'text-billabong-700'],
         'terrace' => ['card' => 'from-terrace-50 ring-terrace-950/10 hover:ring-terrace-950/20', 'name' => 'text-terrace-950', 'accent' => 'text-terrace-700'],
+        'ochre' => ['card' => 'from-ochre-50 ring-ochre-950/10 hover:ring-ochre-950/20', 'name' => 'text-ochre-950', 'accent' => 'text-ochre-700'],
     ][$app['color']];
     $host = parse_url($app['url'], PHP_URL_HOST);
 @endphp

diff --git a/resources/views/og-image.blade.php b/resources/views/og-image.blade.php
@@ -17,8 +17,8 @@
         </p>
         <ul role="list" class="mt-14 flex gap-x-8">
             @foreach (config('kimiyu.apps') as $app)
-                <li class="flex items-center gap-x-3">
-                    <img src="{{ asset($app['icon']) }}" alt="" class="-m-2 size-20">
+                <li class="flex flex-col items-center gap-y-2">
+                    <img src="{{ asset($app['icon']) }}" alt="" class="-m-2 size-24">
                     <div class="font-display text-2xl font-semibold tracking-tight text-neutral-800">{{ $app['name'] }}</div>
                 </li>
             @endforeach

diff --git a/tests/Feature/SeoTest.php b/tests/Feature/SeoTest.php
@@ -31,6 +31,6 @@ class SeoTest extends TestCase
 
         $this->assertSame('https://schema.org', $data['@context']);
         $this->assertSame('kimiyu studio', $data['name']);
-        $this->assertSame(['Joey', 'Bilby', 'Wallaby', 'Wombat', 'Croc', 'Usverchauft'], array_column($data['owns'], 'name'));
+        $this->assertSame(['Joey', 'Bilby', 'Wallaby', 'Wombat', 'Croc', 'Usverchauft', 'Wuff'], array_column($data['owns'], 'name'));
     }
 }

diff --git a/tests/Feature/HomePageTest.php b/tests/Feature/HomePageTest.php
@@ -15,6 +15,7 @@ class HomePageTest extends TestCase
             ->assertSee('https://wallaby.kimiyu.ch')
             ->assertSee('https://wombat.kimiyu.ch')
             ->assertSee('https://croc.kimiyu.ch')
+            ->assertSee('https://wuff.kimiyu.ch')
             ->assertSee('https://usverchauft.ch')
             ->assertDontSee('amor.kimiyu.ch');
     }

diff --git a/NEXT.md b/NEXT.md
@@ -23,6 +23,7 @@ Turn kimiyu.ch into the landing page of the kimiyu studio: a single page that sh
 | **Wombat** | A small, native disk space app for macOS: shows what fills the disk and helps clear it (added to the page 2026-10-15, colour `burrow`) | https://wombat.kimiyu.ch | `kimiyuch/wombat.app` + `kimiyuch/wombat.web` |
 | **Croc** | A small, native video converter for macOS: chews big MOV and MP4 files and animated GIFs down to small, fast-starting web videos (added to the page 2026-10-19, colour `billabong`) | https://croc.kimiyu.ch | `kimiyuch/croc.app` + `kimiyuch/croc.web` |
 | **Usverchauft** | Fan-to-fan ticket passing for FC Winterthur home games, no payments (formerly «Got a ticket?» at gotaticket.kimiyu.ch). No critter: its icon is the red ticket with a heart, so the hero now says *most* apps have an animal (added to the page 2026-10-19, colour `terrace`) | https://usverchauft.ch | `kimiyuch/gotaticket` |
+| **Wuff** | Turns TTF and OTF fonts into WOFF2 and WOFF in the browser and writes the `@font-face` CSS (added to the page 2026-10-20, colour `ochre`) | https://wuff.kimiyu.ch | `kimiyuch/wuff.web` |
 
 Each product is an Australian animal, drawn as a cute flat animal peeking over the app's object on a rounded gradient tile.
 
